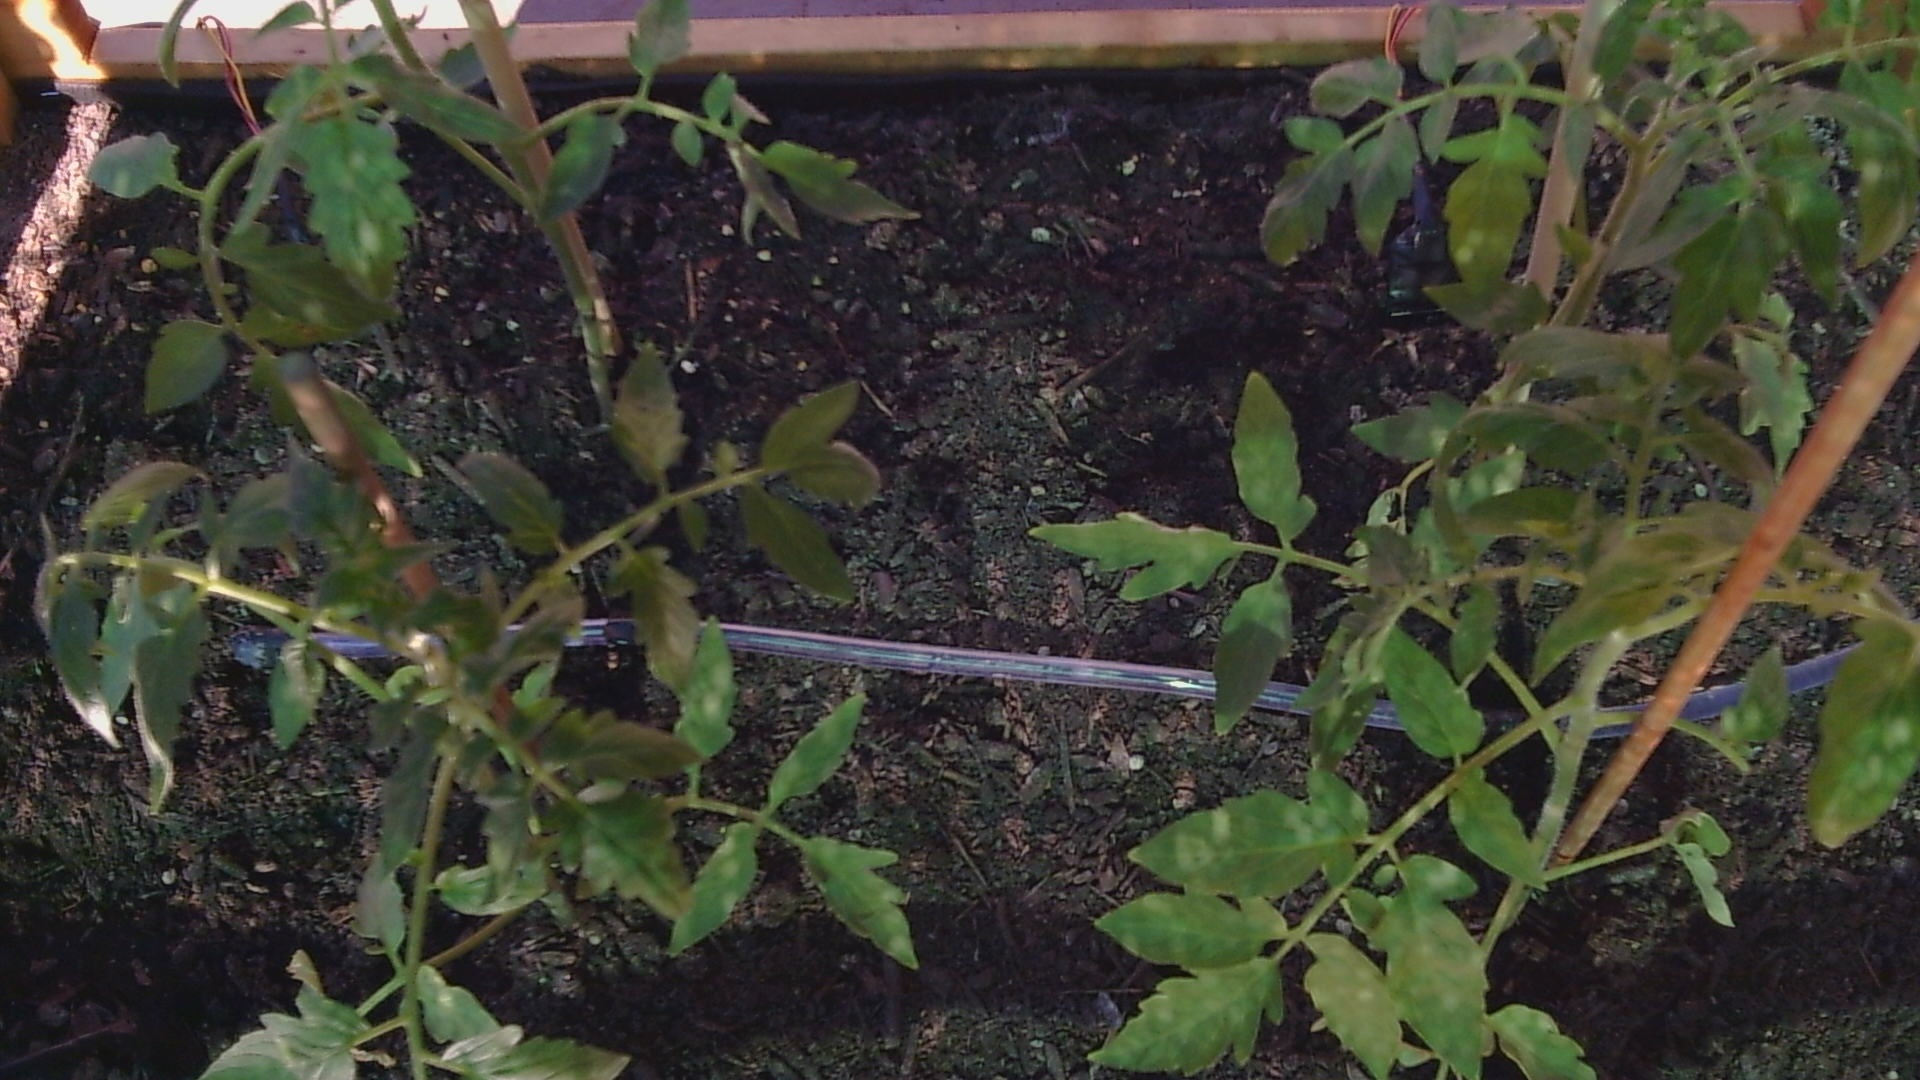
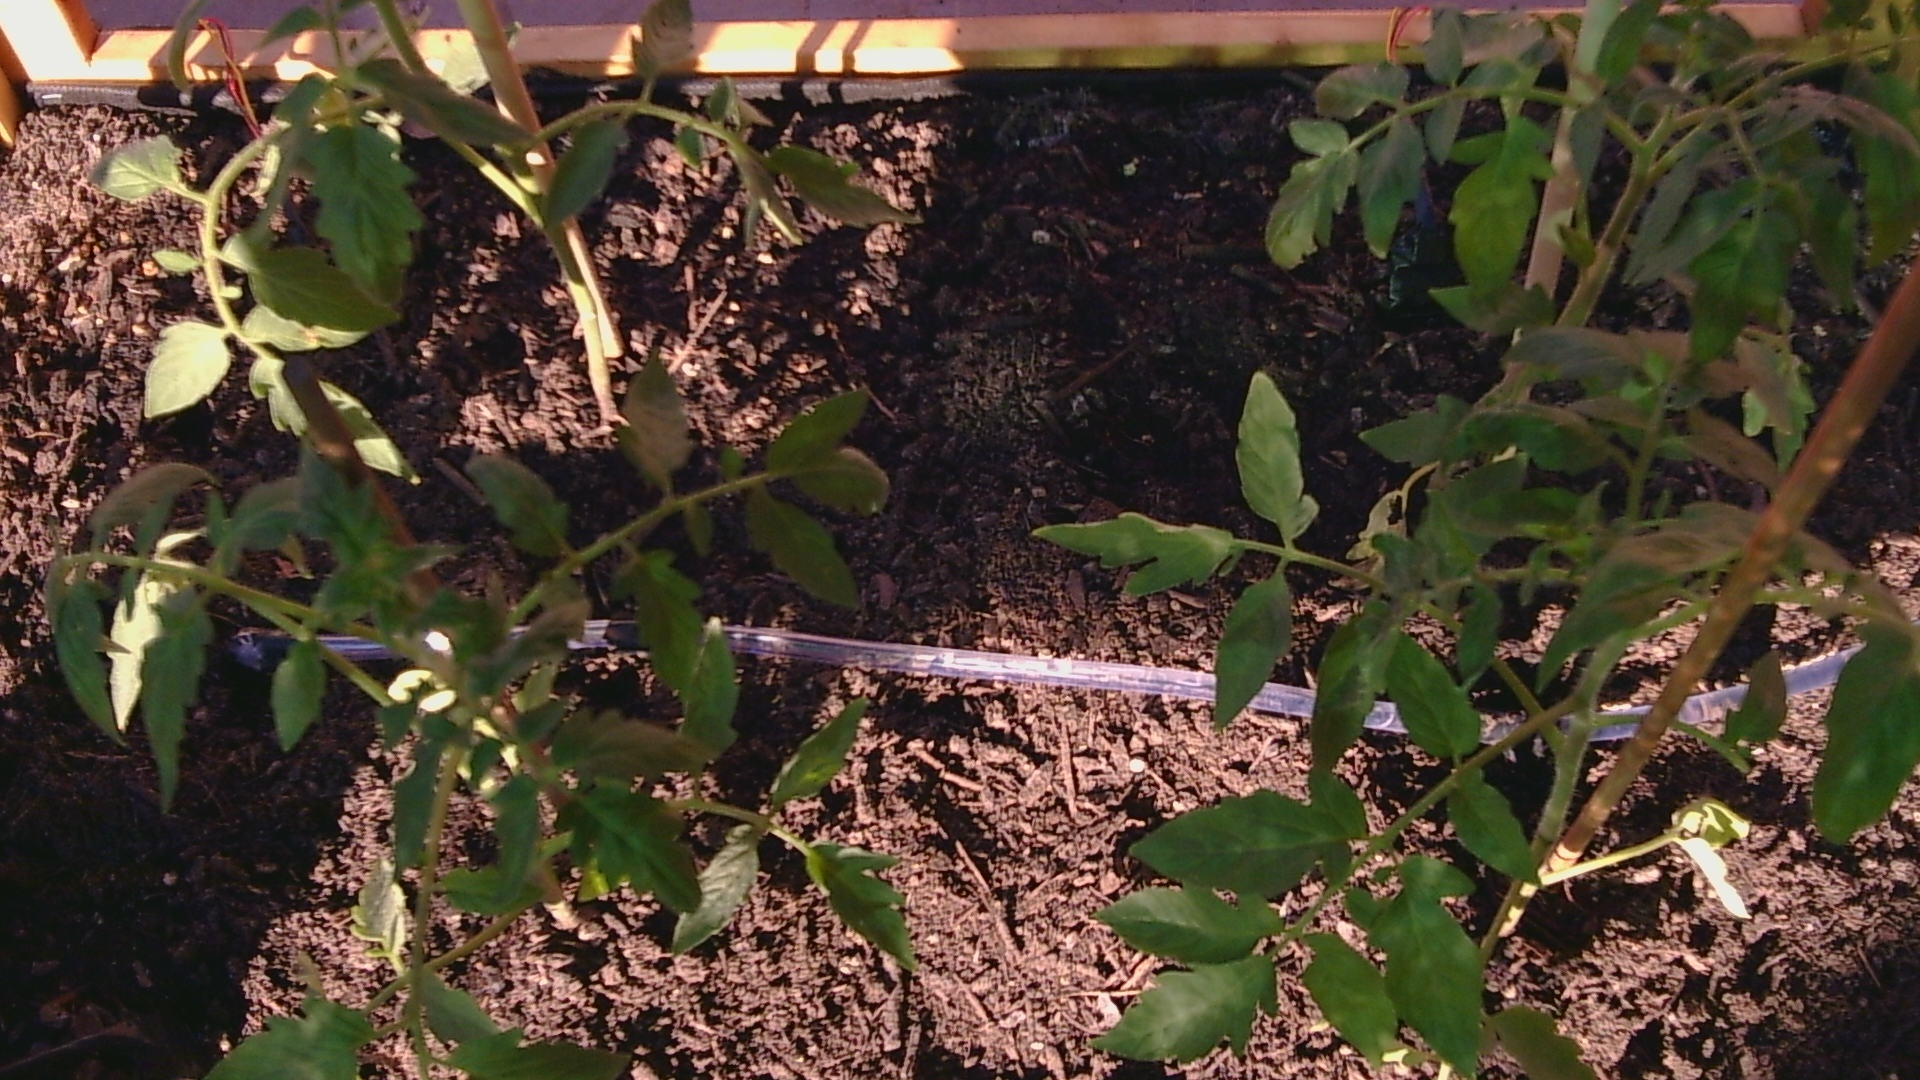
readme upgrade6.0

diff --git a/README.md b/README.md
@@ -188,7 +188,7 @@ physical rebuild.
 inference, and the pump/fans drawing current when active, the current battery setup is undersized for
 sustained, unattended operation — fine for a demo window, not yet for a real deployment cycle.
 
-See `documentacion.md` for the rest of the technical postmortem (sensor/firmware quirks, integration
+See `documentacion` for the rest of the technical postmortem (sensor/firmware quirks, integration
 issues, and the physical build in more detail) — still being filled in with photos and screenshots.
 
 ## What's next
